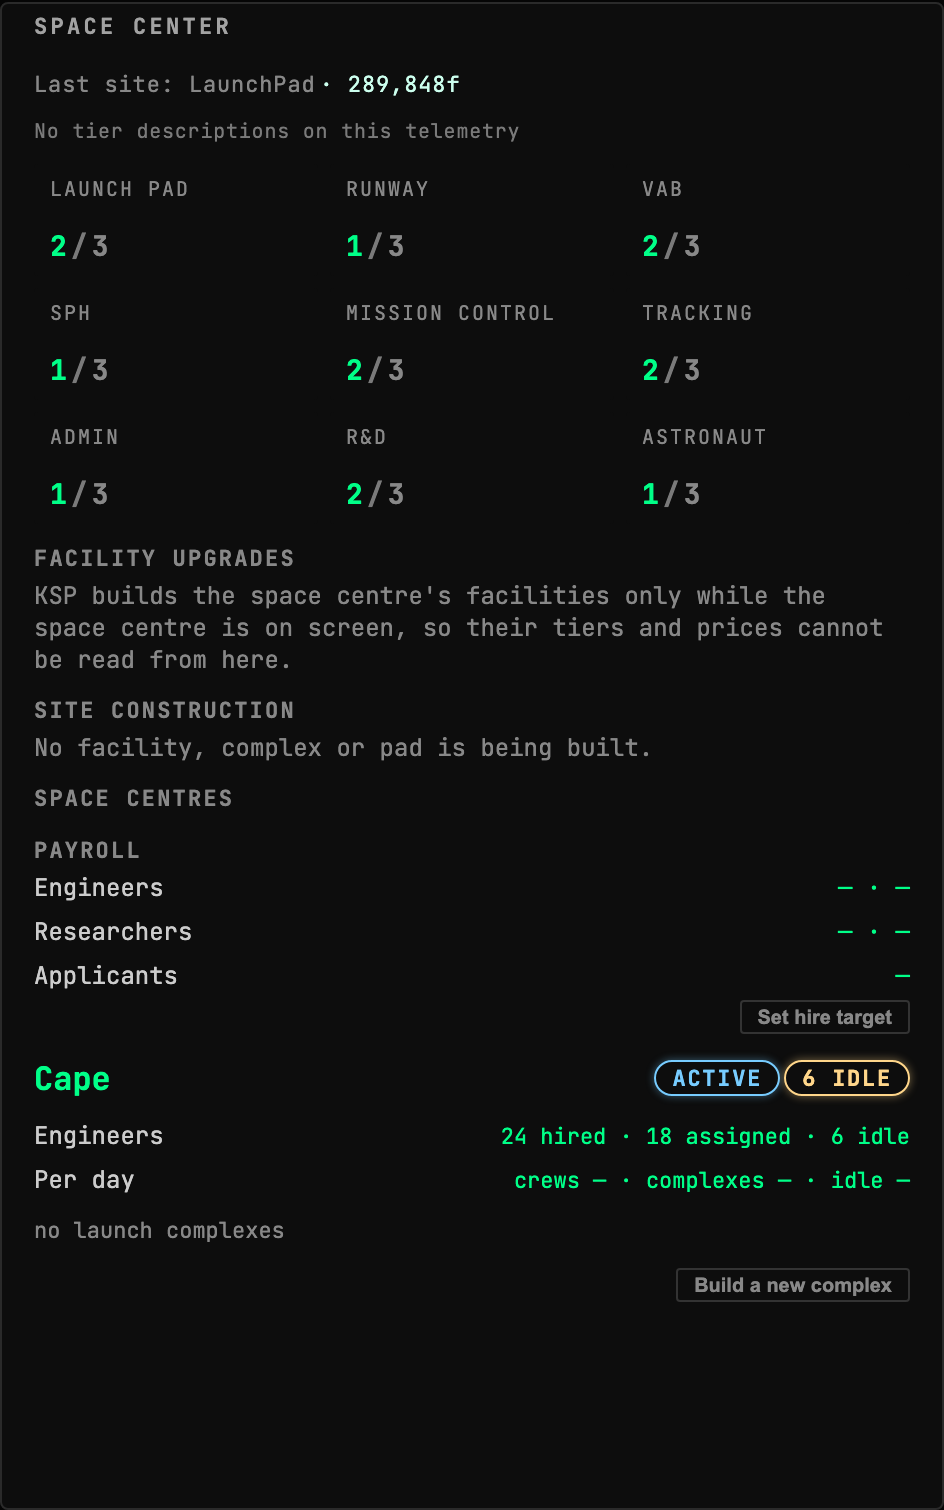
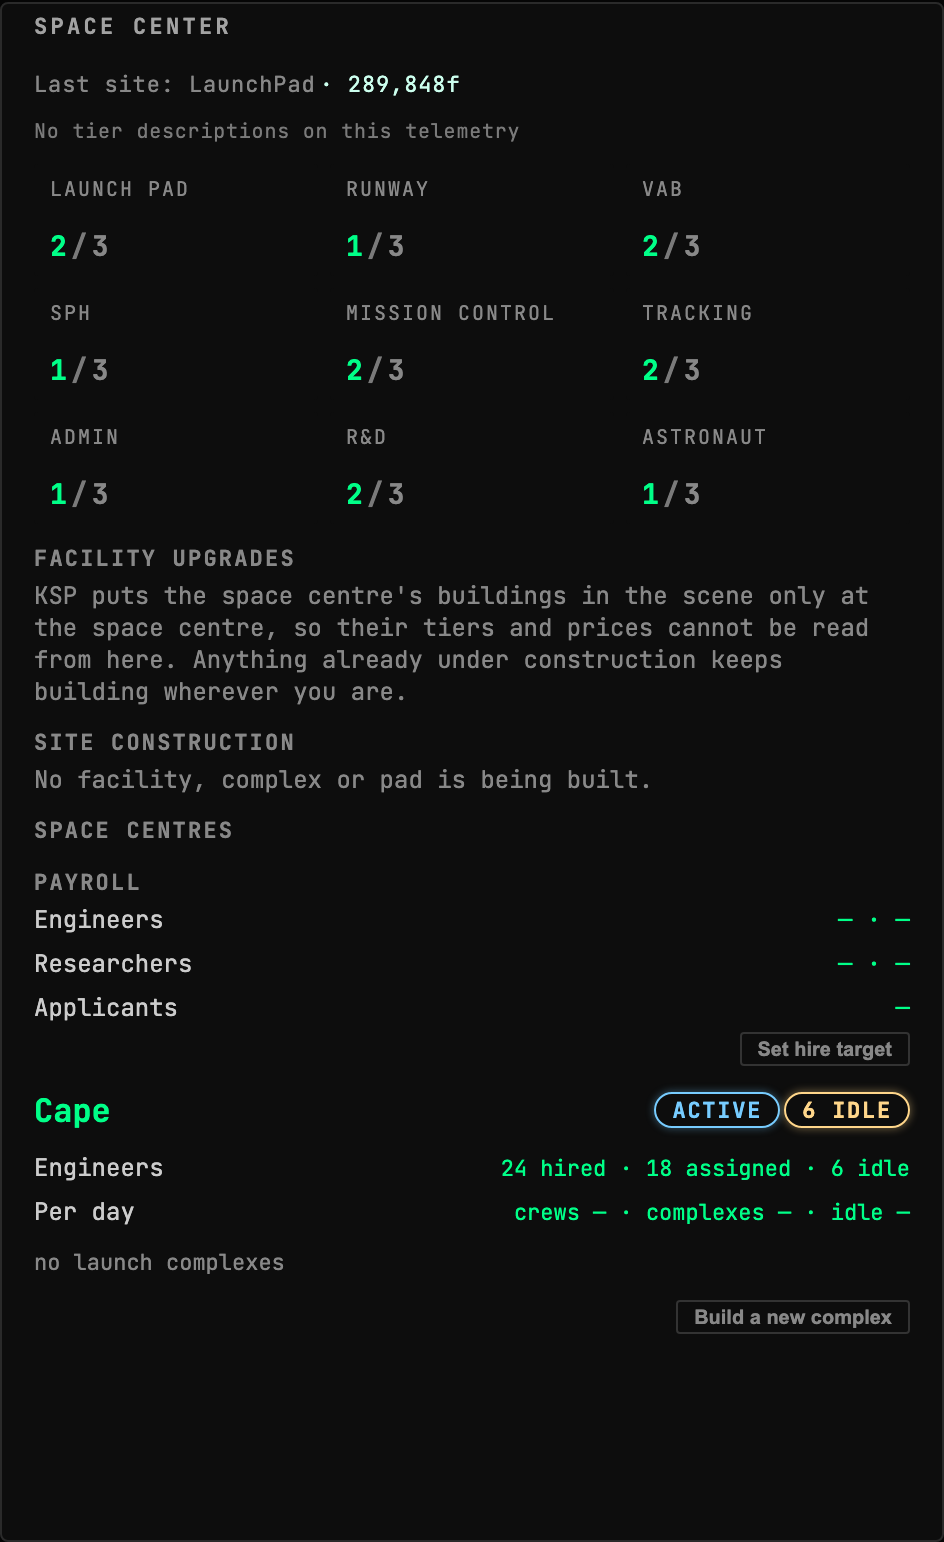
chore: regenerate the RP-1 Uplink page

diff --git a/mod/GonogoRp1Uplink/client/README.md b/mod/GonogoRp1Uplink/client/README.md
@@ -272,7 +272,7 @@ Every craft RP-1 is integrating, holding or could start, across every launch com
 
 ![A career with two tiers it could commit to and one building already in the queue, priced against a balance that cannot meet either: RP-1 bills a construction as it builds, so this is a slower upgrade rather than a refused one](docs/assets/facility-upgrades-at-centre--default.png)
 
-![The same career read from the flight scene: KSP has not built the facilities, so every tier and every price is absent and the command's own gate refuses. Said out loud, because a career with nothing left to upgrade renders the same silence](docs/assets/facility-upgrades-away--default.png)
+![The same career read from the flight scene: KSP has not put the buildings in the scene, so every tier and every price is absent and the command's own gate refuses. Said out loud, because a career with nothing left to upgrade renders the same silence, and said with the half an operator would otherwise fear, that an upgrade already under way is still building](docs/assets/facility-upgrades-away--default.png)
 
 ![LC-1's detail open on a career with 400f against a 14,118f pad: the quote, the reading that it is more than the balance, and a press that is still live because RP-1 slows the build rather than refusing it](docs/assets/complexes-add-pad--default.png)
 
